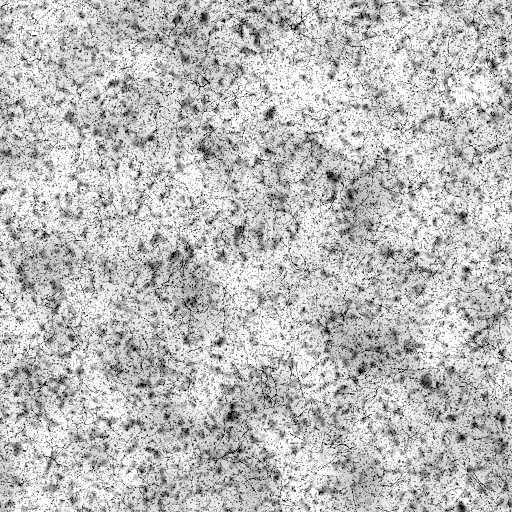
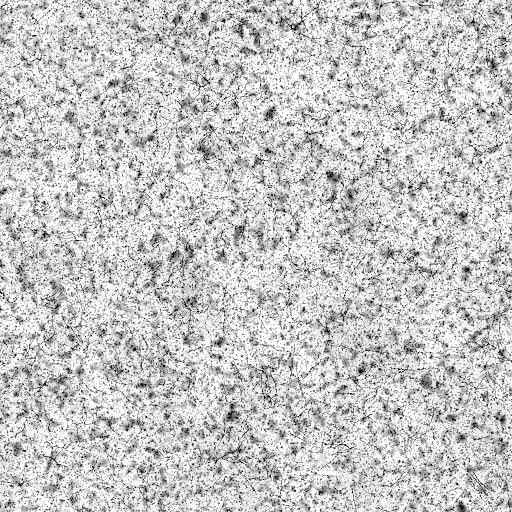
Fix QML issues found by rendering the shell; tune plate and grain
- Plate.qml: property names cannot start with a capital letter
- AudioRecord.qml: id 'print' masked the JS global
- InkText: letter-spacing binding loop; ghost text now keeps padding
- Mode.qml: read state via text() only (FileView.loaded is also a signal)
- tighter clock colon, overcast icon until the first reading
- darker pencil on the starter plate, softer paper grain
- add rendered day / night / popup previews

Claude-Session: https://claude.ai/code/session_01Gt7tu4gfoEos1TAjQ1a4QF

diff --git a/dotfiles/.config/quickshell/modules/background/Plate.qml b/dotfiles/.config/quickshell/modules/background/Plate.qml
@@ -23,12 +23,12 @@ PanelWindow {
     WlrLayershell.namespace: "archive-plate"
     color: Theme.paperBase
 
-    readonly property real W: width
-    readonly property real H: height - Theme.barHeight      // the sheet above the footer strip
+    readonly property real sheetW: width
+    readonly property real sheetH: height - Theme.barHeight      // the sheet above the footer strip
     readonly property int plateSeed: Rand.hash(Plates.current + Plates.number)
 
     // ------------------------------------------------------------ paper
-    Grain { anchors.fill: parent; strength: 1.15 }
+    Grain { anchors.fill: parent; strength: 1.0 }
 
     // foxing: 3-6 small age spots, never on cards
     Repeater {
@@ -41,8 +41,8 @@ PanelWindow {
                 return [r(), r(), r(), r(), r(), r()];
             }
             readonly property real s: 2 + v[0] * 5
-            x: (index % 2 === 0 ? 0.04 + v[1] * 0.28 : 0.68 + v[1] * 0.28) * win.W
-            y: (0.05 + v[2] * 0.88) * win.H
+            x: (index % 2 === 0 ? 0.04 + v[1] * 0.28 : 0.68 + v[1] * 0.28) * win.sheetW
+            y: (0.05 + v[2] * 0.88) * win.sheetH
             width: s; height: s * (0.7 + v[3] * 0.5)
             radius: s / 2
             color: Theme.night > 0.5 ? Qt.rgba(0.9, 0.85, 0.75, 1) : "#8a6e4b"
@@ -55,10 +55,10 @@ PanelWindow {
     Item {
         id: plateBox
         readonly property var box: Plates.field("box", [0.375, 0.06, 0.665, 0.95])
-        x: box[0] * win.W
-        y: box[1] * win.H
-        width: (box[2] - box[0]) * win.W
-        height: (box[3] - box[1]) * win.H
+        x: box[0] * win.sheetW
+        y: box[1] * win.sheetH
+        width: (box[2] - box[0]) * win.sheetW
+        height: (box[3] - box[1]) * win.sheetH
 
         Image {
             id: ink
@@ -145,8 +145,8 @@ PanelWindow {
 
     // ------------------------------------------------------------ header (top centre)
     Column {
-        x: 0.388 * win.W
-        y: 0.040 * win.H
+        x: 0.388 * win.sheetW
+        y: 0.040 * win.sheetH
         spacing: 3
         InkText {
             text: Plates.region
@@ -164,8 +164,8 @@ PanelWindow {
     }
 
     InkText {
-        x: 0.648 * win.W
-        y: 0.042 * win.H
+        x: 0.648 * win.sheetW
+        y: 0.042 * win.sheetH
         text: "Tab. " + Clock.tabNumeral + "."
         font.pixelSize: Theme.sizeData
         color: Theme.soft
@@ -173,8 +173,8 @@ PanelWindow {
 
     // ------------------------------------------------------------ name (lower left of the stem)
     Column {
-        x: 0.283 * win.W
-        y: 0.705 * win.H
+        x: 0.283 * win.sheetW
+        y: 0.705 * win.sheetH
         spacing: 2
         visible: Plates.latin !== ""
 
@@ -197,8 +197,8 @@ PanelWindow {
 
     // ------------------------------------------------------------ stamp (lower left)
     Stamp {
-        x: 0.262 * win.W
-        y: 0.84 * win.H
+        x: 0.262 * win.sheetW
+        y: 0.84 * win.sheetH
         scale: 1.25
         transformOrigin: Item.TopLeft
         number: Plates.number
@@ -210,8 +210,8 @@ PanelWindow {
     // ------------------------------------------------------------ specimen label (lower right)
     Item {
         id: label
-        x: 0.552 * win.W
-        y: 0.80 * win.H
+        x: 0.552 * win.sheetW
+        y: 0.80 * win.sheetH
         width: labelRows.implicitWidth + 28
         height: labelRows.implicitHeight + 20
 
@@ -246,17 +246,17 @@ PanelWindow {
 
     // ------------------------------------------------------------ Specimen No. (vertical, right of the plate)
     Rule {
-        x: 0.698 * win.W
-        y: 0.63 * win.H
-        height: 0.30 * win.H
+        x: 0.698 * win.sheetW
+        y: 0.63 * win.sheetH
+        height: 0.30 * win.sheetH
         width: implicitWidth
         vertical: true
         weight: 1.1
         seed: 81
     }
     InkText {
-        x: 0.703 * win.W
-        y: 0.82 * win.H
+        x: 0.703 * win.sheetW
+        y: 0.82 * win.sheetH
         rotation: -90
         transformOrigin: Item.TopLeft
         text: "Specimen No. " + Plates.number

diff --git a/dotfiles/.config/quickshell/components/InkText.qml b/dotfiles/.config/quickshell/components/InkText.qml
@@ -13,10 +13,18 @@ Text {
     color: Theme.soft
     font.family: Theme.typewriter
     font.pixelSize: Theme.sizeData
-    font.letterSpacing: tracking * font.pixelSize
     font.capitalization: caps ? Font.AllUppercase : Font.MixedCase
     renderType: Text.QtRendering
     textFormat: Text.PlainText
+
+    // tracking is set once, not bound: font is one grouped property, so a
+    // binding from font.pixelSize to font.letterSpacing would loop
+    function applyTracking() {
+        if (tracking !== 0 || font.letterSpacing !== 0)
+            font.letterSpacing = tracking * font.pixelSize;
+    }
+    onTrackingChanged: applyTracking()
+    Component.onCompleted: applyTracking()
 
     Text {
         visible: root.bleed
@@ -37,5 +45,9 @@ Text {
         lineHeight: root.lineHeight
         renderType: root.renderType
         textFormat: root.textFormat
+        leftPadding: root.leftPadding
+        rightPadding: root.rightPadding
+        topPadding: root.topPadding
+        bottomPadding: root.bottomPadding
     }
 }

diff --git a/dotfiles/.config/quickshell/modules/records/AudioRecord.qml b/dotfiles/.config/quickshell/modules/records/AudioRecord.qml
@@ -20,7 +20,7 @@ IndexCard {
 
         // the print
         Item {
-            id: print
+            id: photo
             x: Theme.cardPad
             y: 14
             width: 132
@@ -66,7 +66,7 @@ IndexCard {
         }
 
         Column {
-            anchors.left: print.right
+            anchors.left: photo.right
             anchors.leftMargin: 18
             anchors.right: parent.right
             anchors.rightMargin: Theme.cardPad
@@ -99,7 +99,7 @@ IndexCard {
         // progress: 1 px rule.faint track, 3 px accent.ink fill
         Item {
             id: progress
-            anchors.left: print.right
+            anchors.left: photo.right
             anchors.leftMargin: 18
             anchors.right: parent.right
             anchors.rightMargin: Theme.cardPad

diff --git a/dotfiles/.config/quickshell/services/Mode.qml b/dotfiles/.config/quickshell/services/Mode.qml
@@ -10,7 +10,7 @@ import Quickshell.Io
 Singleton {
     id: root
 
-    readonly property bool isNight: file.loaded && file.text().trim() === "night"
+    readonly property bool isNight: file.text().trim() === "night"
     readonly property string name: isNight ? "night" : "day"
 
     function set(mode: string): void {
@@ -19,7 +19,7 @@ Singleton {
     function toggle(): void { set("toggle"); }
 
     // Optional film grain screen shader (archive-grain writes on / off).
-    readonly property bool grain: grainFile.loaded && grainFile.text().trim() === "on"
+    readonly property bool grain: grainFile.text().trim() === "on"
     function setGrain(on: bool): void {
         Quickshell.execDetached(["archive-grain", on ? "on" : "off"]);
     }

diff --git a/dotfiles/.config/quickshell/modules/records/TimeRecord.qml b/dotfiles/.config/quickshell/modules/records/TimeRecord.qml
@@ -54,8 +54,11 @@ IndexCard {
             spacing: 0
             Digit { value: Clock.hours.charAt(0) }
             Digit { value: Clock.hours.charAt(1) }
+            // the colon, spaced like "14 : 26" but tighter than a full typewriter space
             InkText {
-                text: " : "
+                text: ":"
+                leftPadding: 10
+                rightPadding: 10
                 color: Theme.graphite
                 font.pixelSize: Theme.sizeClock
                 font.bold: true

diff --git a/dotfiles/.config/quickshell/services/Weather.qml b/dotfiles/.config/quickshell/services/Weather.qml
@@ -19,7 +19,7 @@ Singleton {
     property bool isDay: true
 
     readonly property string condition: describe(code)
-    readonly property string icon: iconFor(code, isDay)
+    readonly property string icon: ready ? iconFor(code, isDay) : "overcast"
     readonly property string windCompass: compass(windDirection)
 
     function describe(c: int): string {

diff --git a/dotfiles/.config/quickshell/modules/records/Records.qml b/dotfiles/.config/quickshell/modules/records/Records.qml
@@ -32,7 +32,7 @@ PanelWindow {
     Column {
         id: column
         x: win.pad
-        y: Theme.margin + 16 + Math.max(0, win.free * 0.15)
+        y: Theme.margin + 16 + Math.max(0, win.free * 0.08)
         width: Theme.recordWidth
         spacing: Math.max(Theme.cardGap, Math.min(56, win.free * 0.35 / Math.max(1, win.count - 1)))
 

diff --git a/tools/gen_assets.py b/tools/gen_assets.py
@@ -70,7 +70,7 @@ def make_grain():
     fib = fibres(size, R, 900, 40, 90)
 
     # dark: specks + fibres + very soft blotches; alpha only, black ink
-    dark = 0.45 * np.clip(fine, 0, None) + 0.35 * np.clip(mid, 0, None) + 0.25 * (blotch * 0.5 + 0.5) + 1.4 * fib
+    dark = 0.45 * np.clip(fine, 0, None) + 0.30 * np.clip(mid, 0, None) + 0.08 * (blotch * 0.5 + 0.5) + 1.4 * fib
     dark = np.clip(dark / np.percentile(dark, 99.7), 0, 1)
     rgba = np.zeros((size, size, 4), np.uint8)
     rgba[..., 3] = (dark * 255).astype(np.uint8)

diff --git a/tools/gen_plate.py b/tools/gen_plate.py
@@ -332,7 +332,7 @@ def main():
     tooth = nrng.random((H * SS, W * SS)).astype(np.float32)
     tooth = np.asarray(Image.fromarray((tooth * 255).astype(np.uint8)).filter(ImageFilter.GaussianBlur(0.7)), np.float32) / 255
     ink = np.clip(S.ink, 0, 1.25) / 1.25
-    ink = np.clip(ink * (0.62 + 0.55 * tooth), 0, 1) ** 0.9
+    ink = np.clip(ink * (0.75 + 0.6 * tooth) * 1.35, 0, 1) ** 0.85
 
     alpha = Image.fromarray((ink * 255).astype(np.uint8)).resize((W, H), Image.LANCZOS)
     rgba = Image.new("RGBA", (W, H), (0, 0, 0, 0))
